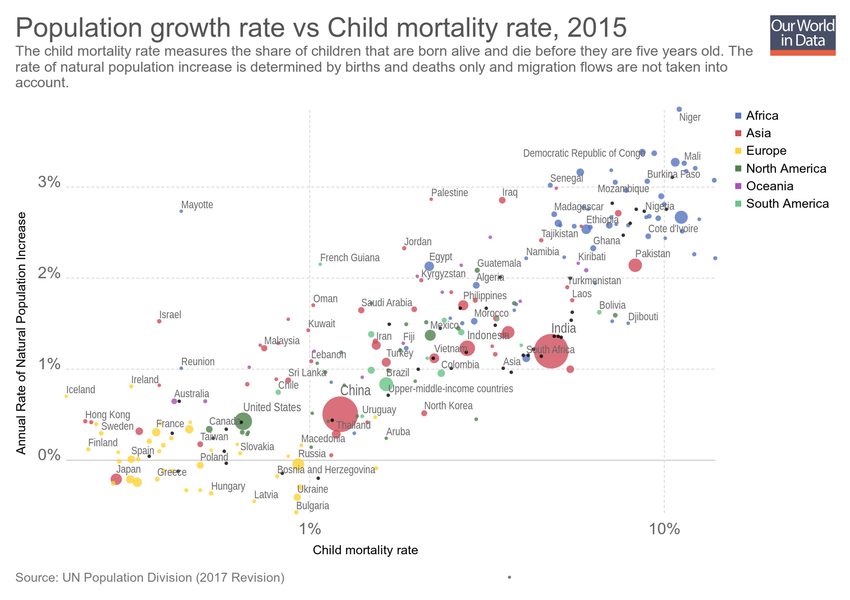
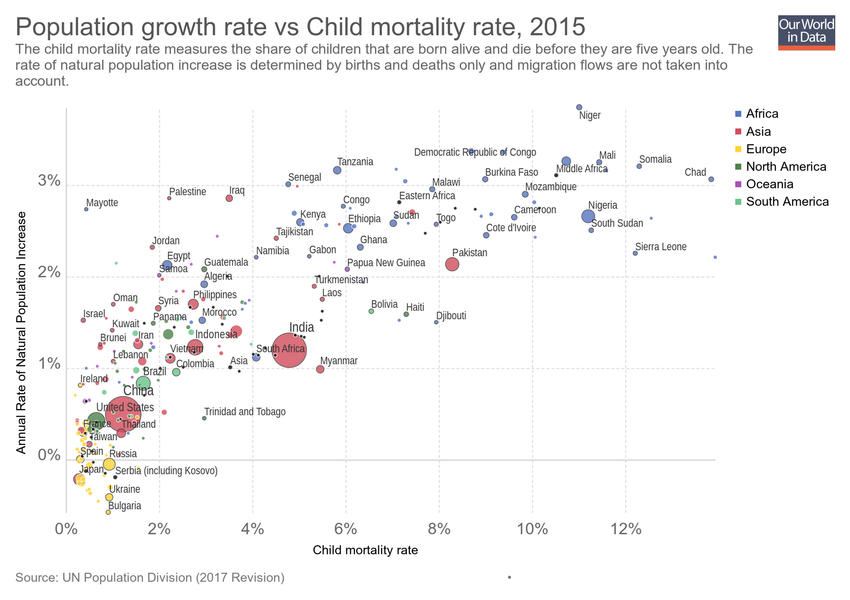
Updating chart child-mortality-vs-population-growth

diff --git a/grapher/child-mortality-vs-population-growth.html b/grapher/child-mortality-vs-population-growth.html
@@ -1,4 +1,4 @@
-<!doctype html><html><head><meta name="viewport" content="width=device-width, initial-scale=1" /><title>Population growth rate vs Child mortality rate - Our World in Data</title><meta name="description" content="The child mortality rate measures the share of children that are born alive and die before they are five years old. The rate of natural population increase is determined by births and deaths only and migration flows are not taken into account." /><link rel="canonical" href="https://ourworldindata.org/grapher/child-mortality-vs-population-growth" /><meta property="fb:app_id" content="1149943818390250" /><meta property="og:url" content="https://ourworldindata.org/grapher/child-mortality-vs-population-growth" /><meta property="og:title" content="Population growth rate vs Child mortality rate" /><meta property="og:description" content="The child mortality rate measures the share of children that are born alive and die before they are five years old. The rate of natural population increase is determined by births and deaths only and migration flows are not taken into account." /><meta property="og:image" content="https://ourworldindata.org/grapher/exports/child-mortality-vs-population-growth.png?v=1" /><meta property="og:image:width" content="850" /><meta property="og:image:height" content="600" /><meta property="og:site_name" content="Our World in Data" /><meta name="twitter:card" content="summary_large_image" /><meta name="twitter:site" content="@OurWorldInData" /><meta name="twitter:creator" content="@OurWorldInData" /><meta name="twitter:title" content="Population growth rate vs Child mortality rate" /><meta name="twitter:description" content="The child mortality rate measures the share of children that are born alive and die before they are five years old. The rate of natural population increase is determined by births and deaths only and migration flows are not taken into account." /><meta name="twitter:image" content="https://ourworldindata.org/grapher/exports/child-mortality-vs-population-growth.png?v=1" /><style>
+<!doctype html><html><head><meta name="viewport" content="width=device-width, initial-scale=1" /><title>Population growth rate vs Child mortality rate - Our World in Data</title><meta name="description" content="The child mortality rate measures the share of children that are born alive and die before they are five years old. The rate of natural population increase is determined by births and deaths only and migration flows are not taken into account." /><link rel="canonical" href="https://ourworldindata.org/grapher/child-mortality-vs-population-growth" /><meta property="fb:app_id" content="1149943818390250" /><meta property="og:url" content="https://ourworldindata.org/grapher/child-mortality-vs-population-growth" /><meta property="og:title" content="Population growth rate vs Child mortality rate" /><meta property="og:description" content="The child mortality rate measures the share of children that are born alive and die before they are five years old. The rate of natural population increase is determined by births and deaths only and migration flows are not taken into account." /><meta property="og:image" content="https://ourworldindata.org/grapher/exports/child-mortality-vs-population-growth.png?v=2" /><meta property="og:image:width" content="850" /><meta property="og:image:height" content="600" /><meta property="og:site_name" content="Our World in Data" /><meta name="twitter:card" content="summary_large_image" /><meta name="twitter:site" content="@OurWorldInData" /><meta name="twitter:creator" content="@OurWorldInData" /><meta name="twitter:title" content="Population growth rate vs Child mortality rate" /><meta name="twitter:description" content="The child mortality rate measures the share of children that are born alive and die before they are five years old. The rate of natural population increase is determined by births and deaths only and migration flows are not taken into account." /><meta name="twitter:image" content="https://ourworldindata.org/grapher/exports/child-mortality-vs-population-growth.png?v=2" /><style>
         html, body {
             height: 100%;
             margin: 0;
@@ -20,8 +20,8 @@
         }
     </style><noscript><style>
                     figure { display: none !important; }
-                </style></noscript><link rel="stylesheet" href="https://ourworldindata.org/grapher/assets/commons.bundle.019a92548339820130b6.css" /><link rel="preload" href="/grapher/data/variables/8385+8390+72+123.json?v=1" as="fetch" crossorigin /></head><body class="singleChart"><figure data-grapher-src="/grapher/child-mortality-vs-population-growth"></figure><noscript id="fallback"><img src="/grapher/exports/child-mortality-vs-population-growth.svg" /><p>Interactive visualization requires JavaScript</p></noscript><script src="https://cdn.polyfill.io/v2/polyfill.min.js?features=es6,fetch"></script><script src="https://ourworldindata.org/grapher/assets/commons.bundle.019a92548339820130b6.js"></script><script src="https://ourworldindata.org/grapher/assets/charts.bundle.dcf65b68eddaba4c6a58.js"></script><script>
-        var jsonConfig = {"id":407,"map":{"projection":"World","targetYear":2015,"variableId":123,"timeTolerance":1,"legendStepSize":20,"baseColorScheme":"BuGn","colorSchemeInvert":false,"colorSchemeLabels":[],"colorSchemeValues":[],"defaultProjection":"World","legendDescription":"","customColorsActive":false,"customNumericColors":[],"customCategoryColors":[],"customCategoryLabels":[],"customHiddenCategories":[]},"tab":"chart","note":"","slug":"child-mortality-vs-population-growth","type":"ScatterPlot","title":"Population growth rate vs Child mortality rate","xAxis":{"scaleType":"log","canChangeScaleType":true},"yAxis":{"scaleType":"linear","labelDistance":-10},"maxTime":2015,"minTime":2015,"version":1,"subtitle":"The child mortality rate measures the share of children that are born alive and die before they are five years old. The rate of natural population increase is determined by births and deaths only and migration flows are not taken into account.","hasMapTab":false,"originUrl":"https://ourworldindata.org/world-population-growth/","stackMode":null,"dimensions":[{"id":8835,"order":0,"chartId":407,"display":{"name":"Child mortality rate","unit":"% of children dying under the age of 5","shortUnit":"%","tolerance":5,"isProjection":false,"conversionFactor":0.1},"property":"x","targetYear":null,"variableId":8385},{"id":8836,"order":1,"chartId":407,"display":{"name":"Annual Rate of Natural Population Increase","unit":"% increase per year","tolerance":5,"isProjection":false,"conversionFactor":0.1},"property":"y","targetYear":null,"variableId":8390},{"id":8837,"order":2,"chartId":407,"display":{"name":"Total population (Gapminder)","tolerance":5,"isProjection":false},"property":"size","targetYear":null,"variableId":72},{"display":{},"property":"color","variableId":123}],"entityType":"country","hideLegend":true,"hasChartTab":true,"isPublished":true,"selectedData":[],"internalNotes":"","addCountryMode":"add-country","hideRelativeToggle":false};
+                </style></noscript><link rel="stylesheet" href="https://ourworldindata.org/grapher/assets/commons.bundle.019a92548339820130b6.css" /><link rel="preload" href="/grapher/data/variables/8385+8390+72+123.json?v=2" as="fetch" crossorigin /></head><body class="singleChart"><figure data-grapher-src="/grapher/child-mortality-vs-population-growth"></figure><noscript id="fallback"><img src="/grapher/exports/child-mortality-vs-population-growth.svg" /><p>Interactive visualization requires JavaScript</p></noscript><script src="https://cdn.polyfill.io/v2/polyfill.min.js?features=es6,fetch"></script><script src="https://ourworldindata.org/grapher/assets/commons.bundle.019a92548339820130b6.js"></script><script src="https://ourworldindata.org/grapher/assets/charts.bundle.dcf65b68eddaba4c6a58.js"></script><script>
+        var jsonConfig = {"id":407,"map":{"projection":"World","targetYear":2015,"variableId":123,"timeTolerance":1,"baseColorScheme":"BuGn","colorSchemeInvert":false,"colorSchemeLabels":[],"colorSchemeValues":[],"legendDescription":"","customColorsActive":false,"colorSchemeMinValue":0,"customNumericColors":[],"customCategoryColors":[],"customCategoryLabels":[],"customHiddenCategories":[]},"tab":"chart","note":"","slug":"child-mortality-vs-population-growth","type":"ScatterPlot","title":"Population growth rate vs Child mortality rate","xAxis":{"min":0,"scaleType":"linear","canChangeScaleType":true},"yAxis":{"scaleType":"linear","labelDistance":-10},"maxTime":2015,"minTime":2015,"version":2,"subtitle":"The child mortality rate measures the share of children that are born alive and die before they are five years old. The rate of natural population increase is determined by births and deaths only and migration flows are not taken into account.","hasMapTab":false,"originUrl":"https://ourworldindata.org/world-population-growth/","stackMode":null,"dimensions":[{"display":{"name":"Child mortality rate","unit":"% of children dying under the age of 5","shortUnit":"%","tolerance":5,"isProjection":false,"conversionFactor":0.1},"property":"x","variableId":8385},{"display":{"name":"Annual Rate of Natural Population Increase","unit":"% increase per year","tolerance":5,"isProjection":false,"conversionFactor":0.1},"property":"y","variableId":8390},{"display":{"name":"Total population (Gapminder)","tolerance":5,"isProjection":false},"property":"size","variableId":72},{"display":{},"property":"color","variableId":123}],"entityType":"country","hideLegend":true,"hasChartTab":true,"isPublished":true,"selectedData":[],"internalNotes":"","addCountryMode":"add-country","hideRelativeToggle":false};
         var figure = document.getElementsByTagName("figure")[0];
         try {
             window.App = {};
